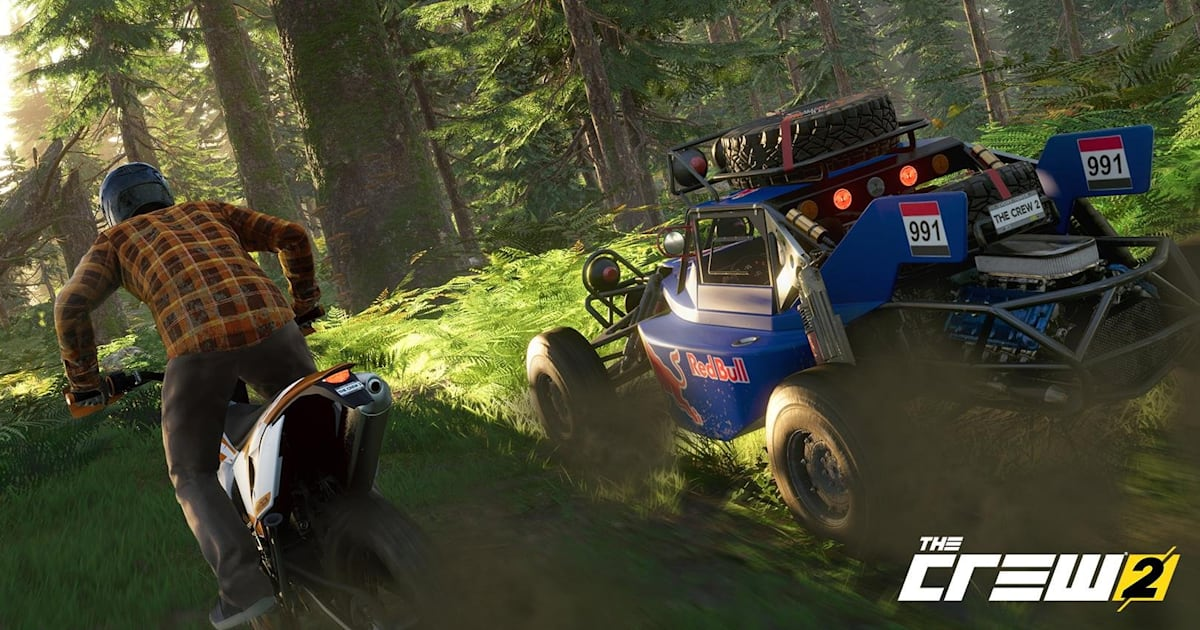
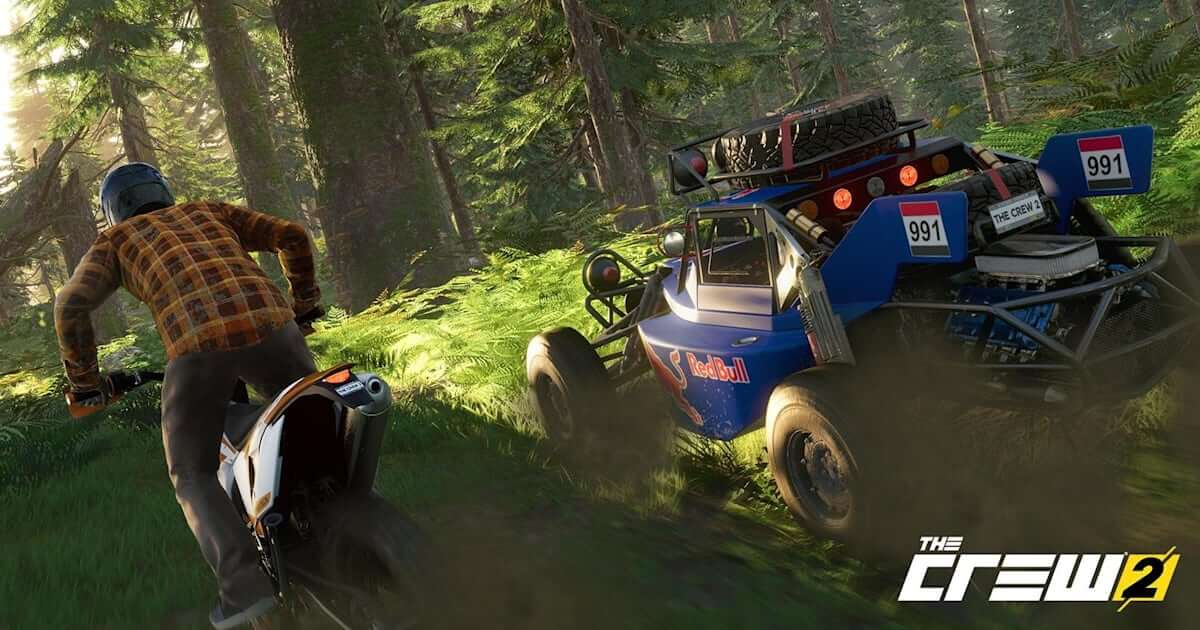
home: images compressed, progressiveImage component created

diff --git a/src/components/ProgressiveImage.js b/src/components/ProgressiveImage.js
@@ -1,0 +1,11 @@
+function ProgressiveImage({placeholderSrc, src, ...props}){
+
+ return (
+ <img 
+ {...{src:placeholderSrc, ...props}}
+    alt={props.alt || ""}
+    className="image"
+ />
+)
+};
+ export default ProgressiveImage; 

diff --git a/src/components/userProfile/userProfile.js b/src/components/userProfile/userProfile.js
@@ -1,4 +1,4 @@
-import BgSvg from "./svgs/BgSvg";
+import BgSvg from "../svgs/Bg-Svg";
 
 function UserProfile(){
 
